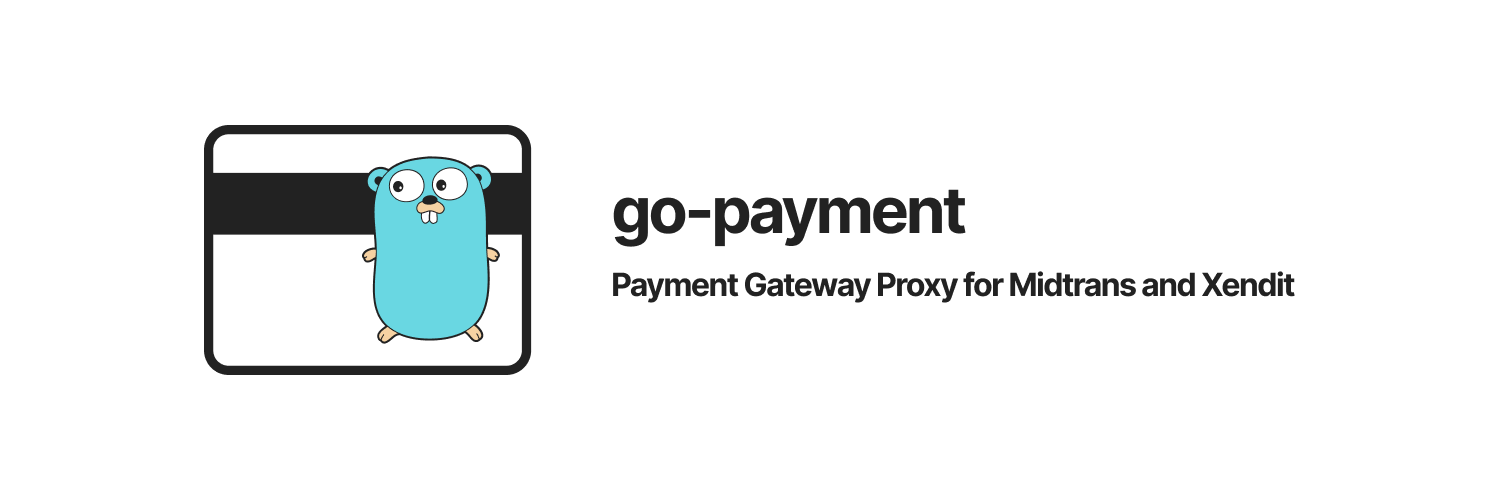
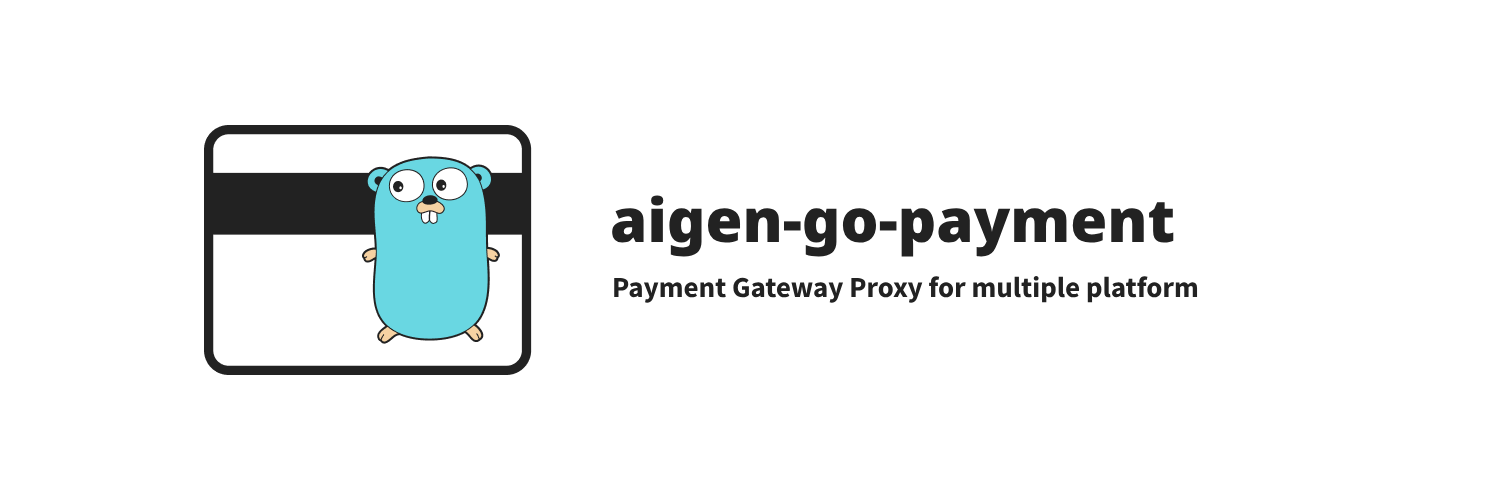
Update project documentation and Postman collection
- Rename Postman collection to aigen-go-payment
- Update README and documentation references to new collection name
- Modify header image reference in README
- Standardize documentation formatting

Changed region(s): [[0.3987, 0.39, 0.7973, 0.51], [0.3987, 0.54, 0.8587, 0.6]]

diff --git a/docs/subscription.md b/docs/subscription.md
@@ -1,8 +1,7 @@
-Subscription API
-===
+# Subscription API
 
 If you want to make recurring payment for your user, you can use Subscription API. For example of usage,
-check [Postman Collection](./go-payment.postman_collection.json)
+check [Postman Collection](./aigen-go-payment.postman_collection.json)
 
 Per current implementation, recurring payment is only supported by Xendit gateway. Here are the recurring payment
 features:
@@ -33,10 +32,10 @@ features:
 
 ### Request
 
-* You can use any integer as `schedule.interval`.
-* `day`, `month` and `year` are the valid values for `schedule.interval_unit`
-* If `charge_immediately` is `true`, `schedule.start_at` will be ignored and automatically set to now.
-* If `charge_immediately` is `false`, `schedule.start_at` must not be empty.
+- You can use any integer as `schedule.interval`.
+- `day`, `month` and `year` are the valid values for `schedule.interval_unit`
+- If `charge_immediately` is `true`, `schedule.start_at` will be ignored and automatically set to now.
+- If `charge_immediately` is `false`, `schedule.start_at` must not be empty.
 
 ```json
 POST /payment/subscriptions
@@ -54,7 +53,7 @@ POST /payment/subscriptions
 		"interval": 1,
 		"interval_unit": "day",
 		"start_at": "2020-06-10T00:00:00.000Z"
-	} 
+	}
 }
 ```
 
@@ -65,13 +64,13 @@ your user to payment page.
 
 ```json
 {
-    "id": 8,    
-    "number": "9b9f1999-b2c8-4eb3-8188-23a115237a4c",
-    // redacted ....
-    // .....
-    "charge_immediately": true,
-    "last_created_invoice": "https://invoice-staging.xendit.co/web/invoices/5edc5b024eb7c20fe6c8ae91",
-    "status": "ACTIVE",
-    "recurrence_progress": 0
+  "id": 8,
+  "number": "9b9f1999-b2c8-4eb3-8188-23a115237a4c",
+  // redacted ....
+  // .....
+  "charge_immediately": true,
+  "last_created_invoice": "https://invoice-staging.xendit.co/web/invoices/5edc5b024eb7c20fe6c8ae91",
+  "status": "ACTIVE",
+  "recurrence_progress": 0
 }
 ```

diff --git a/docs/invoice.md b/docs/invoice.md
@@ -34,7 +34,7 @@ POST /payment/invoices
 }
 ```
 
-> To create invoice with `credit_card` payment with/without installment, please take a look [POSTMAN COLLECTION](/example/server/go-payment.postman_collection.json)
+> To create invoice with `credit_card` payment with/without installment, please take a look [POSTMAN COLLECTION](/example/server/aigen-go-payment.postman_collection.json)
 
 ### Response
 

diff --git a/docs/README.md b/docs/README.md
@@ -1,10 +1,8 @@
-How to Use API
-===
+# How to Use API
 
 ## Table of Contents:
 
-- [Postman Collections](./go-payment.postman_collection.json)
+- [Postman Collections](./aigen-go-payment.postman_collection.json)
 - [Payment Methods](./methods.md)
 - [Invoices](./invoice.md)
 - [Subscription](./subscription.md)
-

diff --git a/README.md b/README.md
@@ -2,7 +2,7 @@
 
 <div align='center'>
 
-![go-payment](./header.png)
+![aigen-go-payment](./header.png)
 
 </div>
 
